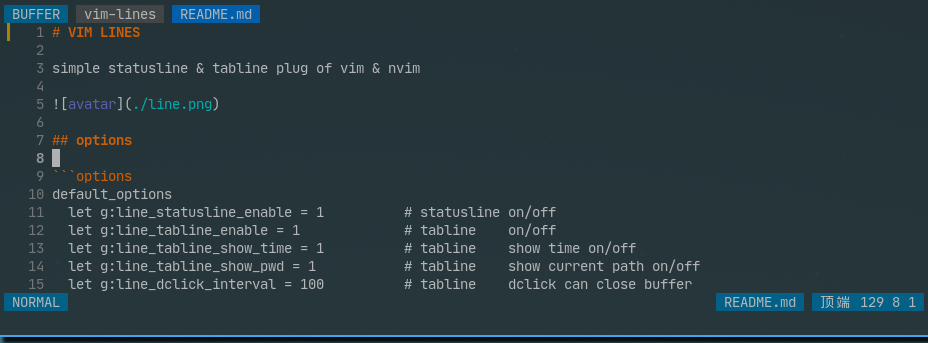
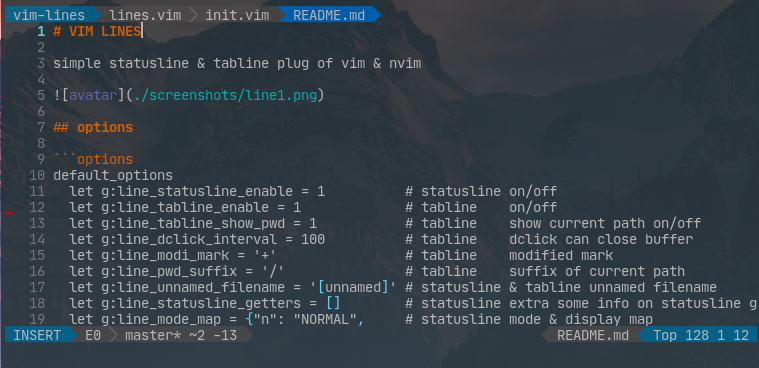
升级: 添加powerline支持 & tabline文本长度过长时部分隐藏

diff --git a/README.md b/README.md
@@ -10,7 +10,6 @@ simple statusline & tabline plug of vim & nvim
 default_options
   let g:line_statusline_enable = 1          # statusline on/off
   let g:line_tabline_enable = 1             # tabline    on/off
-  let g:line_tabline_show_time = 1          # tabline    show time on/off
   let g:line_tabline_show_pwd = 1           # tabline    show current path on/off
   let g:line_dclick_interval = 100          # tabline    dclick can close buffer
   let g:line_modi_mark = '+'                # tabline    modified mark
@@ -30,16 +29,9 @@ default_options
                       \  "S": "SELECT",
                       \  "\<c-s>": "SELECT",
                       \  "t": "TERMINAL"}
-
-default_color
-  hi VimLineHead ctermbg=24
-  hi VimLineSpace ctermbg=NONE
-  hi VimTabC ctermbg=25
-  hi VimTabNC ctermbg=238
+  let g:line_powerline_enable = 0          # statusline & tabline show powerline font
 
 ```
-
-![avatar](./screenshots/line2.png)
 
 ```usage
 if you want to add something to you statusline:
@@ -76,7 +68,6 @@ Example:
 默认设置
   let g:line_statusline_enable = 1          # 状态栏 是否开启
   let g:line_tabline_enable = 1             # 标题栏 是否开启
-  let g:line_tabline_show_time = 1          # 标题栏 是否开启时间显示
   let g:line_tabline_show_pwd = 1           # 标题栏 是否展示当前目录名
   let g:line_dclick_interval = 100          # 标题栏 双击的间隔(双击可用于关闭buffer)
   let g:line_modi_mark = '+'                # 标题栏 发生变更的buffer的标记
@@ -96,13 +87,7 @@ Example:
                       \  "S": "SELECT",
                       \  "\<c-s>": "SELECT",
                       \  "t": "TERMINAL"}
-
-默认颜色设置
-  hi LineColor1 ctermbg=24                  # 边上的块的颜色
-  hi LineColor2 ctermbg=238                 # 额外信息的块的颜色 & buffer 列表的颜色
-  hi LineColor3 ctermbg=25                  # 当前buffer块的颜色
-  hi LineColor4 ctermbg=NONE                # 中间间隔的颜色
-
+  let g:line_powerline_enable = 0          # 状态栏 标题栏 展示powerline字体
 ```
 
 ![avatar](./screenshots/line2.png)
